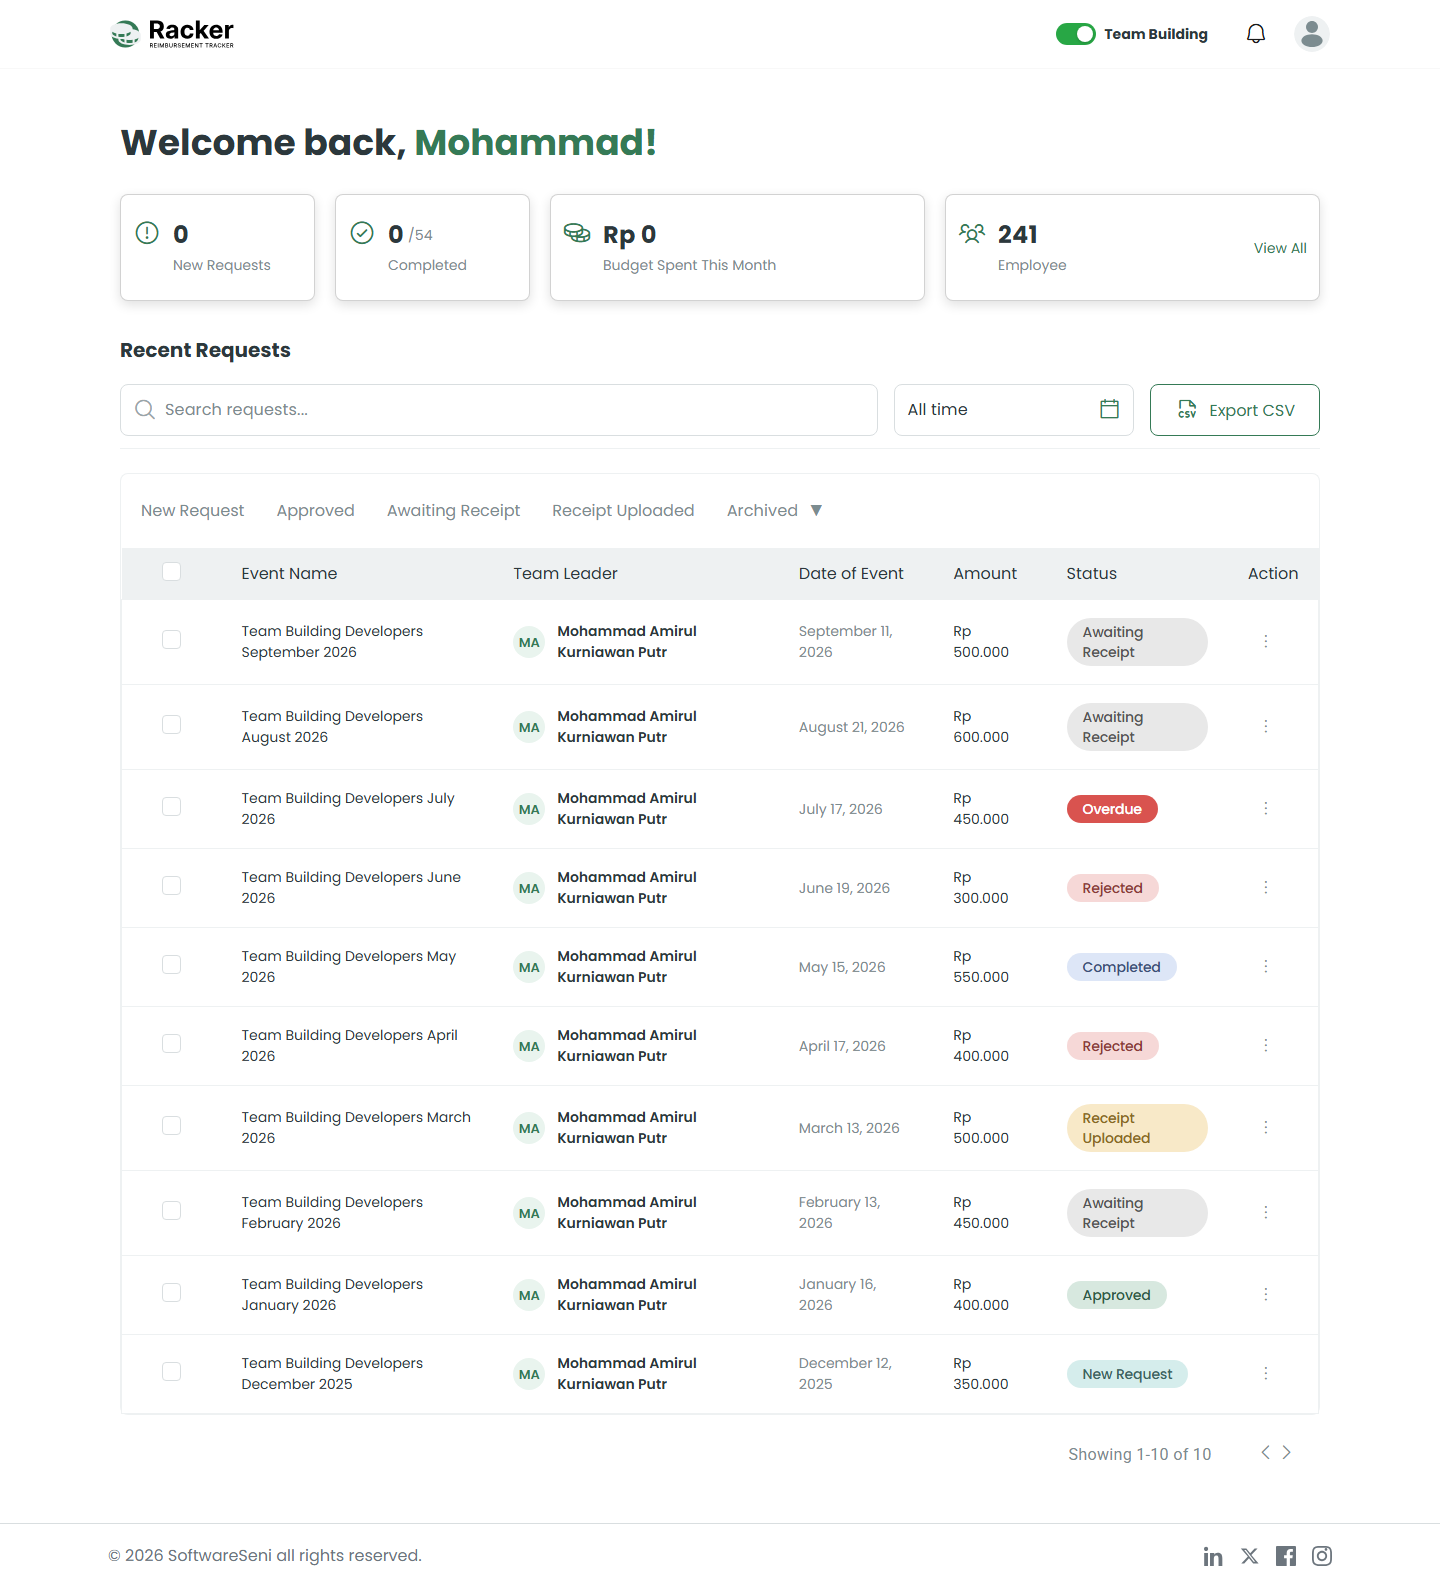
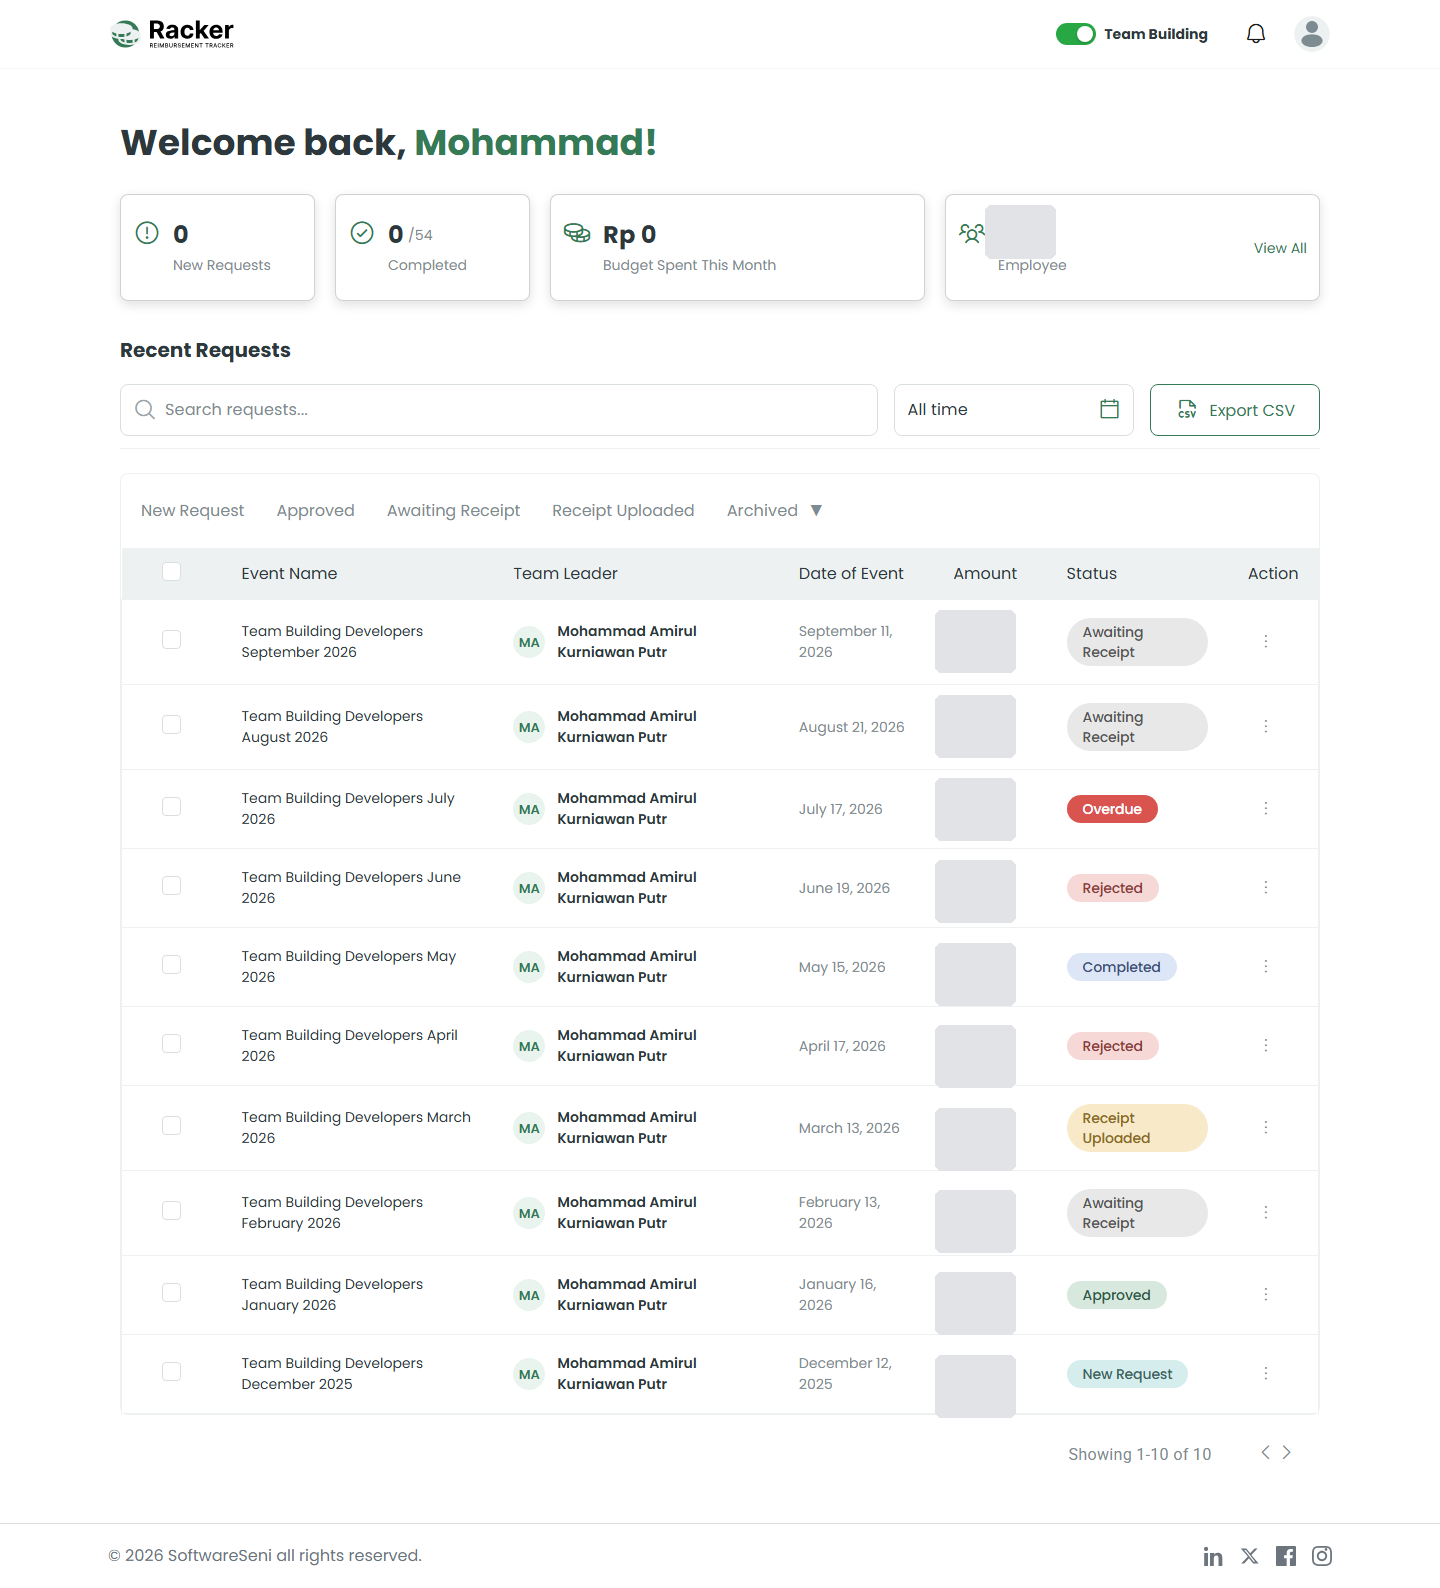
Redact confidential business data and fix case-study modal UI
Racker and CPTool are SoftwareSeni's products, not the owner's own
data. Blanked out real financial/scale figures that shouldn't be
published: Racker's Rp budget amounts (dashboard table, team-lead
history, request detail) and employee headcount, CPTool's dashboard
stats (staff/role/client counts). UI structure and labels stay
visible, only the real numbers are covered.

Also fixes the case-study modal, which was broken: screenshots
rendered at native resolution before the case-study text, and the
close button scrolled out of reach. Now uses a fixed header (title +
always-reachable close button) with an internally-scrollable body
capped at 85vh, text before screenshots, and screenshots as a compact
thumbnail grid (click through to full-size) instead of stacked
full-res images.

Claude-Session: https://claude.ai/code/session_017ghQ3EnScc6AHJwAE83aXr

Changed region(s): [[0.625, 0.3703, 0.7188, 0.8948], [0.6875, 0.1234, 0.75, 0.1851]]

diff --git a/components/portfolio/Projects.jsx b/components/portfolio/Projects.jsx
@@ -174,7 +174,7 @@ function CaseStudyModal({ project, onClose }) {
 
   return (
     <div
-      className="fixed inset-0 z-50 flex items-start sm:items-center justify-center p-4 sm:p-6 overflow-y-auto"
+      className="fixed inset-0 z-50 flex items-center justify-center p-4 sm:p-6"
       role="dialog"
       aria-modal="true"
       aria-label={`${project.name} case study`}
@@ -185,46 +185,37 @@ function CaseStudyModal({ project, onClose }) {
         aria-hidden="true"
       />
 
-      <div className="warm-card relative w-full max-w-2xl rounded-2xl overflow-hidden my-8 sm:my-0">
-        <button
-          type="button"
-          onClick={onClose}
-          aria-label="Close case study"
-          className="absolute top-4 right-4 w-8 h-8 rounded-full border border-border flex items-center justify-center hover:border-accent hover:bg-accent/8 transition-all z-10"
-        >
-          <svg width="12" height="12" viewBox="0 0 12 12" fill="none" aria-hidden="true">
-            <path d="M1 1L11 11M11 1L1 11" stroke="currentColor" strokeWidth="1.3" strokeLinecap="round" />
-          </svg>
-        </button>
+      <div className="warm-card relative w-full max-w-2xl max-h-[85vh] rounded-2xl overflow-hidden flex flex-col">
+        {/* Header — stays fixed while the body below scrolls */}
+        <div className="flex items-start justify-between gap-4 px-6 sm:px-8 pt-6 sm:pt-8 pb-4 border-b border-border/60 flex-shrink-0">
+          <div className="min-w-0">
+            <span className="font-mono text-[9px] uppercase tracking-widest text-accent/70">
+              {project.type}
+            </span>
+            <h3 className="font-display text-2xl sm:text-3xl font-medium text-text-primary mt-1 leading-tight">
+              {project.name}
+            </h3>
+            <p className="font-mono text-[10px] text-text-muted/60 mt-1">{project.company}</p>
+          </div>
+          <button
+            type="button"
+            onClick={onClose}
+            aria-label="Close case study"
+            className="w-8 h-8 rounded-full border border-border flex items-center justify-center hover:border-accent hover:bg-accent/8 transition-all flex-shrink-0"
+          >
+            <svg width="12" height="12" viewBox="0 0 12 12" fill="none" aria-hidden="true">
+              <path d="M1 1L11 11M11 1L1 11" stroke="currentColor" strokeWidth="1.3" strokeLinecap="round" />
+            </svg>
+          </button>
+        </div>
 
-        <div className="p-6 sm:p-8">
-          <span className="font-mono text-[9px] uppercase tracking-widest text-accent/70">
-            {project.type}
-          </span>
-          <h3 className="font-display text-2xl sm:text-3xl font-medium text-text-primary mt-2">
-            {project.name}
-          </h3>
-          <p className="font-mono text-[10px] text-text-muted/60 mt-1">{project.company}</p>
-
-          <div className="flex flex-wrap gap-1.5 mt-4">
+        {/* Body — the only scrollable region */}
+        <div className="overflow-y-auto px-6 sm:px-8 py-6">
+          <div className="flex flex-wrap gap-1.5">
             {project.tags.map((tag) => (
               <span key={tag} className="tag-pill">{tag}</span>
             ))}
           </div>
-
-          {screenshots.length > 0 ? (
-            <div className="mt-6 grid grid-cols-1 gap-3">
-              {screenshots.map((src) => (
-                // eslint-disable-next-line @next/next/no-img-element
-                <img
-                  key={src}
-                  src={src}
-                  alt={`${project.name} screenshot`}
-                  className="rounded-lg border border-border w-full"
-                />
-              ))}
-            </div>
-          ) : null}
 
           <div className="mt-6 space-y-5 text-[13px] text-text-muted leading-[1.7]">
             <section>
@@ -256,6 +247,33 @@ function CaseStudyModal({ project, onClose }) {
               <p>{caseStudy.result}</p>
             </section>
           </div>
+
+          {screenshots.length > 0 ? (
+            <div className="mt-6 pt-6 border-t border-border/60">
+              <h4 className="font-mono text-[10px] uppercase tracking-widest text-text-primary mb-3">
+                Screenshots
+              </h4>
+              <div className="grid grid-cols-2 gap-2 sm:gap-3">
+                {screenshots.map((src) => (
+                  <a
+                    key={src}
+                    href={src}
+                    target="_blank"
+                    rel="noopener noreferrer"
+                    className="block rounded-lg border border-border overflow-hidden hover:border-accent/40 transition-colors"
+                  >
+                    {/* eslint-disable-next-line @next/next/no-img-element */}
+                    <img
+                      src={src}
+                      alt={`${project.name} screenshot`}
+                      className="w-full aspect-[4/3] object-cover object-top"
+                      loading="lazy"
+                    />
+                  </a>
+                ))}
+              </div>
+            </div>
+          ) : null}
         </div>
       </div>
     </div>

diff --git a/docs/ALIGNMENT.md b/docs/ALIGNMENT.md
@@ -16,10 +16,12 @@ Ripping it out now would repeat the mistake the doc warns against: spending more
 | Label proprietary projects instead of blank links | ✅ Done | `components/portfolio/Projects.jsx` shows a "Proprietary" badge when `project.link` is empty, instead of silently omitting the link icon. |
 | Replace bit.ly links with direct Figma URLs (4 UX projects) | ✅ Done | Real URLs supplied by the repo owner and confirmed public. Wired into `lib/portfolioDefaults.js`. |
 | Case-study text for Racker, QuickCue, CPTool | ✅ Done in code | Problem/approach/result writeups from the repo owner, wired into `lib/portfolioDefaults.js` (`caseStudy` field) and rendered via a click-to-expand modal in `components/portfolio/Projects.jsx`. |
-| Screenshots for Racker, QuickCue, CPTool | ✅ Done in code | All 10 owner-supplied screenshots wired into `public/projects/` and each project's `screenshots` array. 2 were cropped/redacted per owner request before publishing: `racker-request-detail.png` (3rd-party participant names blanked out, owner's own name kept) and `cptool-candidate-detail.png` (client name "Riot Games" and staff name blanked out). |
+| Screenshots for Racker, QuickCue, CPTool | ✅ Done in code | All 10 owner-supplied screenshots wired into `public/projects/` and each project's `screenshots` array. 2 were cropped/redacted before publishing: `racker-request-detail.png` (3rd-party participant names blanked out, owner's own name kept) and `cptool-candidate-detail.png` (client name "Riot Games" and staff name blanked out). |
+| Confidential business data in screenshots | ✅ Done | Owner flagged these are SoftwareSeni's product, not personal — redacted real financial/scale figures that aren't the owner's to publish: Racker's Rp budget amounts (dashboard table, team-lead history, request detail) and employee headcount ("241"), CPTool's dashboard stats ("153 Total Staff", "79 Total Staff Roles", "443 Total Clients"). UI structure, labels, and workflow all stay visible — only real numbers are blanked. |
+| Case-study modal interface | ✅ Fixed | Was broken: screenshots rendered at native size before the case-study text, and the close button scrolled out of view. Now: fixed header (title + close button, always reachable), internally-scrollable body capped at `max-h-[85vh]`, text (Problem/Approach/Result) reads before screenshots, screenshots shown as a compact 2-column thumbnail grid (click to open full-size in a new tab) instead of stacked full-resolution images. Verified on desktop (1440px) and mobile (390px) viewports. |
 | Case study + public repo link for Nara itself as flagship project | ❌ Won't do | Owner decision — declined. |
 | `usePortfolioContent.test.js` cache tests failing | 🔲 Flagged, not fixed | Pre-existing bug in the caching logic, unrelated to the alignment work — out of scope here. |
-| **Live site not reflecting any of the above** | 🔲 In progress | Production content is served from the Postgres DB via `/api/portfolio`, not from `lib/portfolioDefaults.js` — that file is only a fallback used when a DB row is missing, and a `projects` row already exists (old descriptions, old bit.ly links, no `caseStudy`/`screenshots` fields). Code changes alone never reach the live site. Fix in progress: added `caseStudy` and `screenshots` fields to `components/dashboard/editors/ProjectsEditor.jsx`, plus a "Load code defaults" button in `ContentEditor.jsx` so the owner can pull the new defaults into the editor and click Save. **Owner action required:** log into `/dashboard` → Content → Projects → "Load code defaults" → review → Save, once this branch is merged and deployed. |
+| **Live site not reflecting any of the above** | 🔲 Owner action pending | Production content is served from the Postgres DB via `/api/portfolio`, not from `lib/portfolioDefaults.js` — that file is only a fallback used when a DB row is missing, and a `projects` row already exists (old descriptions, old bit.ly links, no `caseStudy`/`screenshots` fields). Code changes alone never reach the live site. Fixed in code: added `caseStudy` and `screenshots` fields to `components/dashboard/editors/ProjectsEditor.jsx`, plus a "Load code defaults" button in `ContentEditor.jsx`. **Owner action required:** log into `/dashboard` → Content → Projects → "Load code defaults" → review → Save, once merged and deployed. |
 
 ## Scope discipline
 
